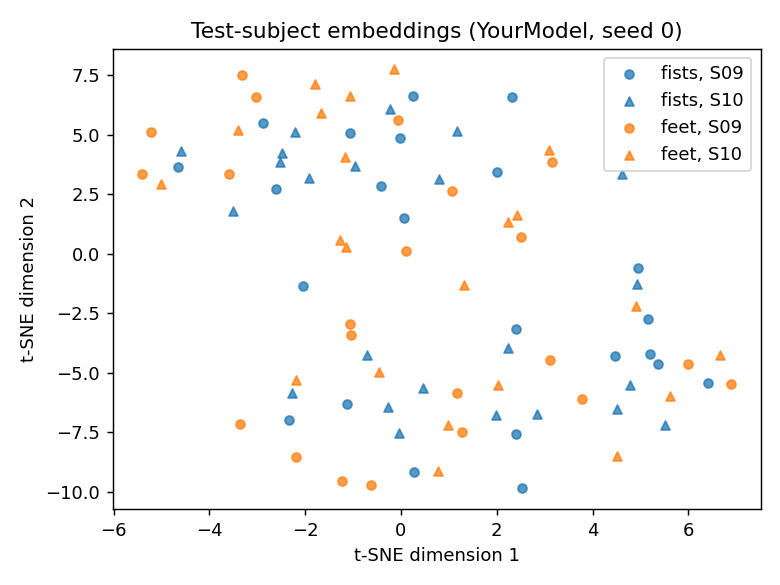
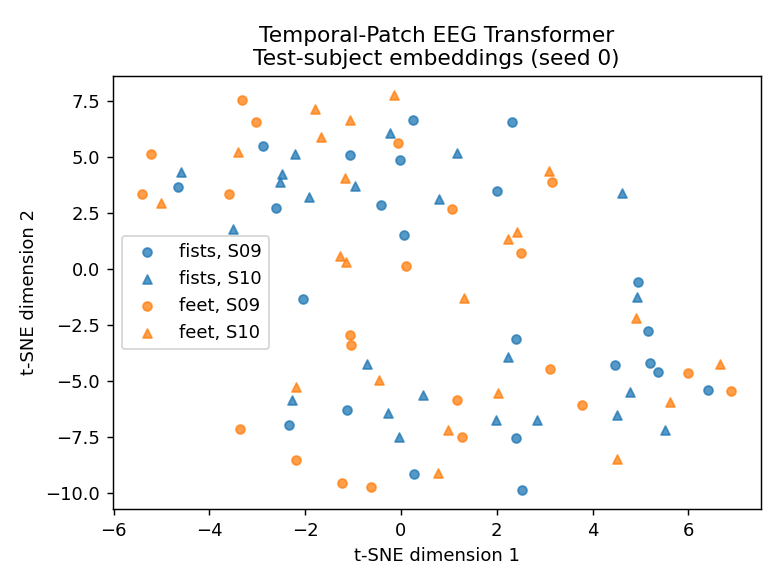
docs: simplify research diagrams and standardize model display names

diff --git a/report_refits.py b/report_refits.py
@@ -1,6 +1,7 @@
 """Separate reporting for the user-requested eight-subject refit experiment."""
 import json
 import numpy as np
+from presentation import display_names
 
 
 def refit_report(root):
@@ -16,7 +17,7 @@ def refit_report(root):
         values=np.array([r['test_acc']*100 for r in records])
         assert [r['seed'] for r in records]==[0,1,2]
         rows.append(f"| {name} | {plan['part2'][name]['epochs']} | "+' | '.join(f'{v:.2f}%' for v in values)+f" | {values.mean():.2f}% | {values.std():.2f} pp | {values.min():.2f}% | {values.max():.2f}% |")
-    return f'''
+    return display_names(f'''
 
 ## Additional Final Refits on Subjects 1–8
 
@@ -37,4 +38,4 @@ All models were reinitialized with their declared seeds and normalization was re
 {chr(10).join(rows)}
 
 The median-duration rule and the underlying validation epochs are recorded in the frozen plan; all predictions, confusion matrices, per-class/per-subject metrics and training histories are in `refits/<part>/results.jsonl`. More training people can help, but a higher score is not guaranteed and whichever stage scores higher is not selected for reporting. Because subjects 9–10 had already been scored in the required comparisons, these are not fresh untouched external-test results; the refit decisions use validation alone, and an independent new cohort would be needed for a new confirmatory claim. `TRAINING_STRATEGY.md` explains the full chronology and independence limits.
-'''
+''')

diff --git a/plot_training.py b/plot_training.py
@@ -19,7 +19,7 @@ for ax,name in zip(axes,['EEGNet','VanillaEEGTransformer','YourModel']):
         ax.plot(x,[p['train_eval_loss'] for p in h],label='training (eval)',color='tab:green')
     ax.plot(x,[p['validation_loss'] for p in h],label='validation',color='tab:orange')
     ax.axvline(record['selected_epoch']+1,color='gray',ls='--',lw=1,label='selected epoch')
-    ax.set(title=name,xlabel='epoch',ylabel='cross entropy')
+    ax.set(title={'YourModel':'Temporal-Patch EEG\nTransformer','VanillaEEGTransformer':'Vanilla EEG Transformer'}.get(name,name),xlabel='epoch',ylabel='cross entropy')
     ax.set_yscale('log'); ax.grid(alpha=.2)
     summary[name]=dict(final_training_loss_mean=float(np.mean([r['history'][-1]['train_loss'] for r in records])),
                        final_validation_loss_mean=float(np.mean([r['history'][-1]['validation_loss'] for r in records])),

diff --git a/generate_report.py b/generate_report.py
@@ -177,6 +177,8 @@ Dataset/run and cue context: [PhysioNet EEGBCI](https://physionet.org/content/ee
       mean_selected_validation_accuracy=float(np.mean([r['best_validation_acc'] for r in selected[m].values()])),
       n_params=selected[m][0]['n_params'],tokens={'EEGNet':None,'VanillaEEGTransformer':482,'YourModel':17}[m]) for m in models}
  (ROOT/'part2_transformer/comparison_summary.json').write_text(json.dumps(summary,indent=2))
+ from presentation import display_names
+ text = display_names(text)
  (ROOT/'ANSWERS.md').write_text(text,encoding='utf-8')
  print('Generated ANSWERS.md from real records')
 

diff --git a/part2_transformer/main.py b/part2_transformer/main.py
@@ -111,7 +111,7 @@ def save_figure(model, Xte, yte, device, path="figure.png"):
             m = (yte == c) & (subject_ids == subject)
             plt.scatter(emb2[m, 0], emb2[m, 1], s=24, alpha=0.75,
                         c=color, marker=marker, label=f"{name}, S{subject:02d}")
-    plt.legend(); plt.title("Test-subject embeddings (YourModel, seed 0)")
+    plt.legend(); plt.title("Temporal-Patch EEG Transformer\nTest-subject embeddings (seed 0)")
     plt.xlabel('t-SNE dimension 1'); plt.ylabel('t-SNE dimension 2')
     plt.tight_layout(); plt.savefig(path, dpi=130)
     print(f"  saved {path}")

diff --git a/make_final_report.py b/make_final_report.py
@@ -103,6 +103,8 @@ No required execution remains incomplete. Residual artifacts and top/bottom cue 
 
 **The project is complete locally. No files have been pushed to GitHub. Awaiting the new repository URL.**
 '''
+    from presentation import display_names
+    text = display_names(text)
     (ROOT/'FINAL_REPORT.md').write_text(text,encoding='utf-8')
     print('Created FINAL_REPORT.md after successful verification')
 

diff --git a/presentation.py b/presentation.py
@@ -1,0 +1,4 @@
+"""Human-readable model names; experiment identifiers remain unchanged."""
+
+def display_names(text):
+    return text.replace("YourModel", "Temporal-Patch EEG Transformer").replace("VanillaEEGTransformer", "Vanilla EEG Transformer")

diff --git a/ANSWERS.md b/ANSWERS.md
@@ -51,9 +51,9 @@ Learned 32-sample temporal patches impose local aggregation and reduce attention
 
 This study evaluates the supplied Conv1d patch tokenizer and adds right padding to cover the last partial patch, shape checks and embedding/backpropagation tests; no extra spatial, spectral or augmentation mechanism is added. Input is B×64×481, patch width/stride 32 (200 ms), padding 31 samples, 16 patch tokens plus CLS, embedding 64, four heads, three encoder layers, feedforward width 128, dropout 0.3 and output B×2 (embedding B×64).
 
-Vanilla uses 481 timestep tokens plus CLS: **482×482** scores/head/layer (232,324 entries). YourModel uses **17×17** (289 entries), a **803.89×** score-count reduction; there are four heads and three layers in each. This is quadratic-attention cost, not a measured wall-clock speedup: token projection and other operations still cost time. Parameter counts: EEGNet 2,738; vanilla 135,746; YourModel 232,962. Patching reduces tokens but increases tokenizer parameters, so it does not automatically reduce overfitting.
+Vanilla uses 481 timestep tokens plus CLS: **482×482** scores/head/layer (232,324 entries). Temporal-Patch EEG Transformer uses **17×17** (289 entries), a **803.89×** score-count reduction; there are four heads and three layers in each. This is quadratic-attention cost, not a measured wall-clock speedup: token projection and other operations still cost time. Parameter counts: EEGNet 2,738; vanilla 135,746; Temporal-Patch EEG Transformer 232,962. Patching reduces tokens but increases tokenizer parameters, so it does not automatically reduce overfitting.
 
-EEGNet uses eight temporal kernels of width 80, depthwise full-electrode convolution with multiplier two, then depthwise/separable temporal convolution with 16 features, ELU, batch normalization, pooling factors 4 and 8, dropout 0.5 and a two-class linear head. Vanilla projects each 64-channel timestep into dimension 64, adds CLS and learned positions, applies three post-norm transformer layers (four heads, feedforward width 128, GELU, dropout 0.3), and classifies the normalized CLS embedding. YourModel preserves that transformer stack but replaces timestep projection with the temporal Conv1d tokenizer. All encoder layers have distinct parameter storage despite identical initial cloned layer values; this inherited initialization is unchanged across the two transformer configurations.
+EEGNet uses eight temporal kernels of width 80, depthwise full-electrode convolution with multiplier two, then depthwise/separable temporal convolution with 16 features, ELU, batch normalization, pooling factors 4 and 8, dropout 0.5 and a two-class linear head. Vanilla projects each 64-channel timestep into dimension 64, adds CLS and learned positions, applies three post-norm transformer layers (four heads, feedforward width 128, GELU, dropout 0.3), and classifies the normalized CLS embedding. Temporal-Patch EEG Transformer preserves that transformer stack but replaces timestep projection with the temporal Conv1d tokenizer. All encoder layers have distinct parameter storage despite identical initial cloned layer values; this inherited initialization is unchanged across the two transformer configurations.
 
 ### Experimental Setup
 
@@ -67,15 +67,15 @@ Uniform random guessing is 50%. A majority-class baseline fitted on optimization
 |---|---:|---:|---:|---:|---:|---:|---:|---:|
 | EEGNet | 44.44% | 51.11% | 48.89% | 48.15% | 2.77 pp | 44.44% | 51.11% |
 | VanillaEEGTransformer | 43.33% | 46.67% | 54.44% | 48.15% | 4.66 pp | 43.33% | 54.44% |
-| YourModel | 46.67% | 45.56% | 50.00% | 47.41% | 1.89 pp | 45.56% | 50.00% |
+| Temporal-Patch EEG Transformer | 46.67% | 45.56% | 50.00% | 47.41% | 1.89 pp | 45.56% | 50.00% |
 
 ### Interpretation
 
-YourModel's mean accuracy is 47.41%, compared with EEGNet 48.15% and vanilla 48.15%. Completed seed counts are EEGNet 3, vanilla 3, YourModel 3; missing runs are excluded from summaries. Descriptive comparisons do not select a model. The all-seed scores above provide the comparison; these explicitly show whether the ordering repeats across the three seeds. The measured standard deviations describe seed sensitivity on this fixed two-person test population, not uncertainty across new subjects or proof that patching improves optimization. EEGNet's temporal/spatial convolution and pooling constrain the hypothesis space; vanilla must learn useful structure from few people, while a large patch projection can itself overfit. More held-out subject folds, matched parameter budgets, patch-size ablation selected on validation data, loss-curve analysis and independent cue controls would strengthen any conclusion.
+Temporal-Patch EEG Transformer's mean accuracy is 47.41%, compared with EEGNet 48.15% and vanilla 48.15%. Completed seed counts are EEGNet 3, vanilla 3, Temporal-Patch EEG Transformer 3; missing runs are excluded from summaries. Descriptive comparisons do not select a model. The all-seed scores above provide the comparison; these explicitly show whether the ordering repeats across the three seeds. The measured standard deviations describe seed sensitivity on this fixed two-person test population, not uncertainty across new subjects or proof that patching improves optimization. EEGNet's temporal/spatial convolution and pooling constrain the hypothesis space; vanilla must learn useful structure from few people, while a large patch projection can itself overfit. More held-out subject folds, matched parameter budgets, patch-size ablation selected on validation data, loss-curve analysis and independent cue controls would strengthen any conclusion.
 
 ### Figure
 
-The figure uses the validation-selected original YourModel seed 0, preselected independently of test accuracy. Fixed-random-seed (0) t-SNE projects its 64-dimensional CLS embeddings from all 90 test trials; colors identify fists/feet and markers identify subjects 9/10. Axes are arbitrary t-SNE coordinates. It is a descriptive visualization of an already evaluated cohort, not a model-selection instrument: local neighborhoods and global distances can be distorted, and visible separation would not establish accuracy, statistical significance or physiological specificity. Visual inspection shows substantial overlap of the two class colors and both subject markers, without a clean class-separated cluster structure.
+The figure uses the validation-selected original Temporal-Patch EEG Transformer seed 0, preselected independently of test accuracy. Fixed-random-seed (0) t-SNE projects its 64-dimensional CLS embeddings from all 90 test trials; colors identify fists/feet and markers identify subjects 9/10. Axes are arbitrary t-SNE coordinates. It is a descriptive visualization of an already evaluated cohort, not a model-selection instrument: local neighborhoods and global distances can be distorted, and visible separation would not establish accuracy, statistical significance or physiological specificity. Visual inspection shows substantial overlap of the two class colors and both subject markers, without a clean class-separated cluster structure.
 
 ### Data Quality and Leakage Audit
 
@@ -128,9 +128,9 @@ Epochs below are one-based. Training accuracy is measured in evaluation mode at 
 | VanillaEEGTransformer | 0 | 26 | Unavailable | 60.00% | 0.7097 | Unavailable | Unavailable | 42.22% | 44.44% |
 | VanillaEEGTransformer | 1 | 31 | Unavailable | 62.22% | 1.6209 | Unavailable | Unavailable | 46.67% | 46.67% |
 | VanillaEEGTransformer | 2 | 1 | 50.74% | 50.00% | 0.6935 | 51.11% | 48.89% | 62.22% | 46.67% |
-| YourModel | 0 | 4 | 75.93% | 63.33% | 0.6510 | 64.44% | 62.22% | 42.22% | 51.11% |
-| YourModel | 1 | 5 | 72.59% | 63.33% | 0.7052 | 62.22% | 64.44% | 40.00% | 51.11% |
-| YourModel | 2 | 31 | 100.00% | 67.78% | 1.3139 | 66.67% | 68.89% | 51.11% | 48.89% |
+| Temporal-Patch EEG Transformer | 0 | 4 | 75.93% | 63.33% | 0.6510 | 64.44% | 62.22% | 42.22% | 51.11% |
+| Temporal-Patch EEG Transformer | 1 | 5 | 72.59% | 63.33% | 0.7052 | 62.22% | 64.44% | 40.00% | 51.11% |
+| Temporal-Patch EEG Transformer | 2 | 31 | 100.00% | 67.78% | 1.3139 | 66.67% | 68.89% | 51.11% | 48.89% |
 
 ## Trial accounting
 
@@ -151,9 +151,9 @@ Part 1 has 45 task annotations per subject but retains 42: its full -2 to 5 seco
 
 ## Generalization evidence
 
-Vanilla seeds 0/1 end with online training losses 0.090/0.100 versus validation losses 1.533/1.764: a strong overfitting signal. Validation-to-test differences suggest subject-dependent generalization, but only two people in each cohort cannot identify a population-level cause. A suboptimal learning rate is unverified; no baseline hyperparameters were changed. Historical EEGNet validation predictions were not saved, so we cannot determine retrospectively whether S7 or S8 dominated its validation score. Newly saved YourModel validation predictions permit that descriptive check without retraining. No test-based preprocessing or architecture selection was performed. Optional compact models, robust scaling and refits were skipped under the submission deadline.
+Vanilla seeds 0/1 end with online training losses 0.090/0.100 versus validation losses 1.533/1.764: a strong overfitting signal. Validation-to-test differences suggest subject-dependent generalization, but only two people in each cohort cannot identify a population-level cause. A suboptimal learning rate is unverified; no baseline hyperparameters were changed. Historical EEGNet validation predictions were not saved, so we cannot determine retrospectively whether S7 or S8 dominated its validation score. Newly saved Temporal-Patch EEG Transformer validation predictions permit that descriptive check without retraining. No test-based preprocessing or architecture selection was performed. Optional compact models, robust scaling and refits were skipped under the submission deadline.
 
-Across the three YourModel runs, S7/S8 validation accuracy differs by only 2.22 percentage points within each seed, and the easier subject changes. Neither validation subject consistently dominates. Saved predictions show mild class preferences, not single-class collapse. All three YourModel runs develop substantial late train/validation loss gaps. The patch model does not exceed EEGNet in mean test accuracy; the proposed accuracy benefit is not established. Reduced attention-score count is demonstrated structurally, while its causal contribution to generalization is not isolated by this unequal-parameter comparison.
+Across the three Temporal-Patch EEG Transformer runs, S7/S8 validation accuracy differs by only 2.22 percentage points within each seed, and the easier subject changes. Neither validation subject consistently dominates. Saved predictions show mild class preferences, not single-class collapse. All three Temporal-Patch EEG Transformer runs develop substantial late train/validation loss gaps. The patch model does not exceed EEGNet in mean test accuracy; the proposed accuracy benefit is not established. Reduced attention-score count is demonstrated structurally, while its causal contribution to generalization is not isolated by this unequal-parameter comparison.
 
 ### Defense questions
 
@@ -165,12 +165,12 @@ Balanced accuracy is the mean of fists and feet recall. Prediction counts use fi
 
 | Model | Seed | Subject | Balanced accuracy | Fists recall | Feet recall | Predicted fists/feet |
 |---|---:|---:|---:|---:|---:|---:|
-| YourModel | 0 | 7 | 64.43% | 63.64% | 65.22% | 22/23 |
-| YourModel | 0 | 8 | 62.35% | 56.52% | 68.18% | 20/25 |
-| YourModel | 1 | 7 | 62.45% | 72.73% | 52.17% | 27/18 |
-| YourModel | 1 | 8 | 64.23% | 73.91% | 54.55% | 27/18 |
-| YourModel | 2 | 7 | 66.50% | 59.09% | 73.91% | 19/26 |
-| YourModel | 2 | 8 | 68.97% | 65.22% | 72.73% | 21/24 |
+| Temporal-Patch EEG Transformer | 0 | 7 | 64.43% | 63.64% | 65.22% | 22/23 |
+| Temporal-Patch EEG Transformer | 0 | 8 | 62.35% | 56.52% | 68.18% | 20/25 |
+| Temporal-Patch EEG Transformer | 1 | 7 | 62.45% | 72.73% | 52.17% | 27/18 |
+| Temporal-Patch EEG Transformer | 1 | 8 | 64.23% | 73.91% | 54.55% | 27/18 |
+| Temporal-Patch EEG Transformer | 2 | 7 | 66.50% | 59.09% | 73.91% | 19/26 |
+| Temporal-Patch EEG Transformer | 2 | 8 | 68.97% | 65.22% | 72.73% | 21/24 |
 | VanillaEEGTransformer | 2 | 7 | 50.00% | 0.00% | 100.00% | 0/45 |
 | VanillaEEGTransformer | 2 | 8 | 50.00% | 0.00% | 100.00% | 0/45 |
 

diff --git a/README.md b/README.md
@@ -17,7 +17,7 @@ Motor imagery EEG contains weak, spatially distributed mu- and beta-band signatu
 This project has two connected components:
 
 1. **Pipeline diagnosis:** correct six experimentally consequential defects in an EEGNet workflow; evaluate event-related desynchronization (ERD) and a possible visual-cue confound.
-2. **Controlled model study:** compare an EEG-specific convolutional baseline, a vanilla timestep-token Transformer, and a temporal-patch Transformer using fixed subject partitions and three random seeds.
+2. **Controlled model study:** compare an EEG-specific convolutional baseline, a vanilla timestep-token Transformer, and a Temporal-Patch EEG Transformer using fixed subject partitions and three random seeds.
 
 The study prioritizes **subject-disjoint evaluation, explicit checkpoint selection, and reproducibility** over choosing the best observed seed.
 
@@ -44,7 +44,7 @@ The test subjects (9 and 10) were not used to fit normalization parameters, opti
 |:--|--:|--:|--:|--:|--:|
 | EEGNet | 44.44% | 51.11% | 48.89% | **48.15%** | 2.77 pp |
 | Vanilla EEG Transformer | 43.33% | 46.67% | 54.44% | **48.15%** | 4.66 pp |
-| Temporal-Patch Transformer (`YourModel`) | 46.67% | 45.56% | 50.00% | **47.41%** | 1.89 pp |
+| Temporal-Patch EEG Transformer (`YourModel`) | 46.67% | 45.56% | 50.00% | **47.41%** | 1.89 pp |
 
 Balanced binary guessing has an expected accuracy of 50%. A majority-class predictor fixed on the training subjects scores **48.89%** on the test set. None of the neural models establishes a meaningful generalization advantage on these two unseen people.
 
@@ -54,7 +54,7 @@ Mean validation-selected accuracy was **68.15%** for EEGNet, **57.41%** for vani
 
 ### Architectural and computational comparison
 
-| Metric | EEGNet | Vanilla Transformer | Temporal-Patch Transformer |
+| Metric | EEGNet | Vanilla Transformer | Temporal-Patch EEG Transformer |
 |:--|--:|--:|--:|
 | Parameters | **2,738** | 135,746 | 232,962 |
 | Tokens including CLS | — | **482** | **17** |
@@ -82,18 +82,23 @@ These scores are **not a controlled before/after accuracy ablation**: the task a
 The main leakage safeguard is splitting **people**, not randomly splitting epochs belonging to the same person.
 
 ```mermaid
-flowchart TD
-    A["EEGBCI · subjects 1–10<br/>imagery runs 6 / 10 / 14"] --> B["7–30 Hz filter<br/>0–3 s · 64 × 481"]
-    B --> C["Subject-disjoint partitions"]
-    C --> D["Train · subjects 1–6<br/>270 trials"]
-    C --> E["Validate · subjects 7–8<br/>90 trials"]
-    C --> F["Test · subjects 9–10<br/>90 trials"]
-    D --> G["Training-only channel scaling"]
-    G --> H["Fit three models · three seeds"]
-    H --> I["Restore best validation checkpoint"]
-    E --> I
-    I --> J["Evaluate held-out subjects"]
-    F --> J
+%%{init: {"flowchart": {"htmlLabels": false, "nodeSpacing": 24, "rankSpacing": 32}, "themeVariables": {"fontSize": "14px"}}}%%
+flowchart TB
+    A["EEGBCI<br/>Dataset"] --> B["Preprocessing<br/>7–30 Hz; 0–3 s"]
+    B --> C["Subject-Disjoint<br/>Split"]
+    C --> D["Training<br/>Subjects 1–6"]
+    C --> E["Validation<br/>Subjects 7–8"]
+    C --> F["Testing<br/>Subjects 9–10"]
+    D --> N["Training-Only<br/>Normalization"]
+    N --> M["Model<br/>Training"]
+    E --> V["Apply Training<br/>Normalization"]
+    F --> T["Apply Training<br/>Normalization"]
+    N -. Fitted statistics .-> V
+    N -. Fitted statistics .-> T
+    M --> S["Validation-Based<br/>Checkpoint Selection"]
+    V --> S
+    S --> H["Held-Out<br/>Evaluation"]
+    T --> H
 ```
 
 ### Preprocessing and retained trials
@@ -125,20 +130,27 @@ Temporal convolutions extract frequency-related structure, depthwise spatial fil
 
 Every EEG sample index becomes an embedded 64-dimensional token. Adding a learned classification token produces **482 tokens**. The encoder contains **three layers, four attention heads, and 128-dimensional feedforward layers**.
 
-### Temporal-Patch Transformer — local temporal aggregation
+### Temporal-Patch EEG Transformer — local temporal aggregation
 
 A learned `Conv1d` tokenizer groups **32 samples (200 ms)** over all 64 channels. Right-padding from 481 to 512 samples retains the final observation, yielding **16 temporal patches plus CLS = 17 tokens**. Transformer width, head count and depth match the vanilla model.
 
 ```mermaid
+%%{init: {"flowchart": {"htmlLabels": false, "nodeSpacing": 24, "rankSpacing": 32}, "themeVariables": {"fontSize": "14px"}}}%%
 flowchart LR
-    X["EEG epoch · 64 × 481"] --> V["Timestep projection"]
-    X --> P["Pad to 512 · Conv1d<br/>kernel 32, stride 32"]
-    V --> VT["481 tokens + CLS"]
-    P --> PT["16 patches + CLS"]
-    VT --> A["3 Transformer layers"]
-    PT --> B["3 Transformer layers"]
-    A --> Y["Fists / Feet"]
-    B --> Y
+    subgraph VAN["Vanilla EEG Transformer"]
+        direction TB
+        V0["Input<br/>64 × 481"] --> V1["Per-Timestep<br/>Projection"]
+        V1 --> V2["482 Tokens<br/>Including CLS"]
+        V2 --> V3["Transformer<br/>Encoder"]
+        V3 --> V4["Classification"]
+    end
+    subgraph PATCH["Temporal-Patch EEG Transformer"]
+        direction TB
+        P0["Input<br/>64 × 481"] --> P1["Temporal Conv1d<br/>Patch Size: 32"]
+        P1 --> P2["17 Tokens<br/>Including CLS"]
+        P2 --> P3["Transformer<br/>Encoder"]
+        P3 --> P4["Classification"]
+    end
 ```
 
 **Inductive-bias hypothesis:** learn local temporal features before global attention. This reduces attention sequence length but does not explicitly compute mu/beta power, ERD or scalp-neighborhood structure.
@@ -157,7 +169,7 @@ Negative ERD indicates a reduction in bandpower relative to pre-cue rest. Latera
 
 ### Learned embedding structure
 
-![t-SNE of temporal-patch Transformer embeddings on the test subjects](part2_transformer/figure.png)
+![t-SNE of Temporal-Patch EEG Transformer embeddings on the test subjects](part2_transformer/figure.png)
 
 Fixed-seed t-SNE of the validation-selected patch-model seed 0 on subjects 9–10. Color denotes imagined class; marker shape denotes subject. Classes substantially overlap. The projection is descriptive, not a significance test or proof of physiological separation.
 
